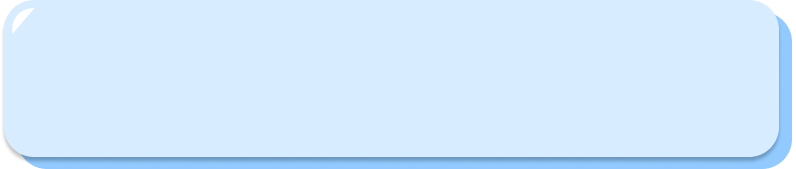
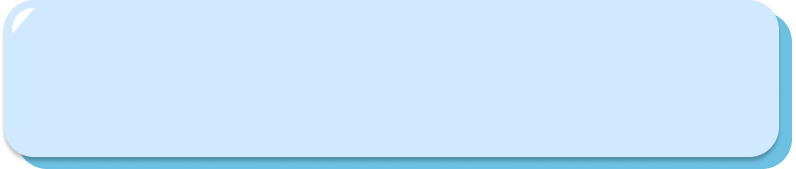
Add hide end game overlay method to improve the transition from finished level to home or next level. Adjust colours of UI to better match the rest of the game components.

Changed region(s): [[0.0302, 0.0888, 0.995, 1.0]]

diff --git a/src/scenes/quiz-scene.js b/src/scenes/quiz-scene.js
@@ -26,6 +26,10 @@ export class QuizScene extends Phaser.Scene {
     #gameOver = false; 
     /** @type {Phaser.GameObjects.Image} */
     #backBtn; 
+    /** @type {Phaser.GameObjects.Image} */
+    #overlay; 
+    /** @type {Phaser.GameObjects.Container} */
+    #overlayContainer
 
     constructor() {
         super({
@@ -154,6 +158,7 @@ export class QuizScene extends Phaser.Scene {
     #backBtnOnClick = () => {
         if(this.#gameOver || this.#currLevel === 4) {
             // Reset before transitioning 
+            this.#hideEndGameOverlay(); 
             this.reset(); 
             this.#transitionToNextScene(SCENE_KEYS.TITLE_SCENE); 
         }
@@ -181,7 +186,7 @@ export class QuizScene extends Phaser.Scene {
     } 
 
     #createEndGameOverlay(level = 1) {
-        const overlay = this.add
+        this.#overlay = this.add
         .image(0, 0, UI_ASSET_KEYS.OVERLAY)
         .setOrigin(0)
         .setDepth(3)
@@ -189,7 +194,7 @@ export class QuizScene extends Phaser.Scene {
         this.#quizMenu.disableAnswersInteractivity(); 
 
         // Create the container for the endgame overlay 
-        const overlayContainer = this.add.container(this.sys.game.canvas.width/2, this.sys.game.canvas.height/2 - 40,[])
+        this.#overlayContainer = this.add.container(this.sys.game.canvas.width/2, this.sys.game.canvas.height/2 - 40,[])
             .setDepth(3)
         // Create the overlay UI 
         const overlayUI = this.add
@@ -237,11 +242,11 @@ export class QuizScene extends Phaser.Scene {
             fontStyle: "bold"
         }).setOrigin(1,0) 
 
-        overlayContainer.add(overlayUI)
-        overlayContainer.add(this.#backBtn)
-        overlayContainer.add(overlayUIText)
-        overlayContainer.add(scoreText)
-        overlayContainer.add(nextLevelText)
+        this.#overlayContainer.add(overlayUI)
+        this.#overlayContainer.add(this.#backBtn)
+        this.#overlayContainer.add(overlayUIText)
+        this.#overlayContainer.add(scoreText)
+        this.#overlayContainer.add(nextLevelText)
 
         // Add the end overlay based on the level 
         switch (level) {
@@ -276,6 +281,13 @@ export class QuizScene extends Phaser.Scene {
                     console.log("Invalid level set")
                     break;
         }
+    }
+
+    #hideEndGameOverlay() {
+        // Destroy the overlay container and the overlay 
+        this.#overlay.destroy();
+        this.#overlayContainer.destroy();
+
     }
 
     update() {

diff --git a/index.html b/index.html
@@ -13,7 +13,7 @@
             width: 100vw; 
             position: absolute;
             overflow: hidden;
-            background-color: #86bcc7;
+            background-color: #44a1c6;
         }
 
         @font-face {
